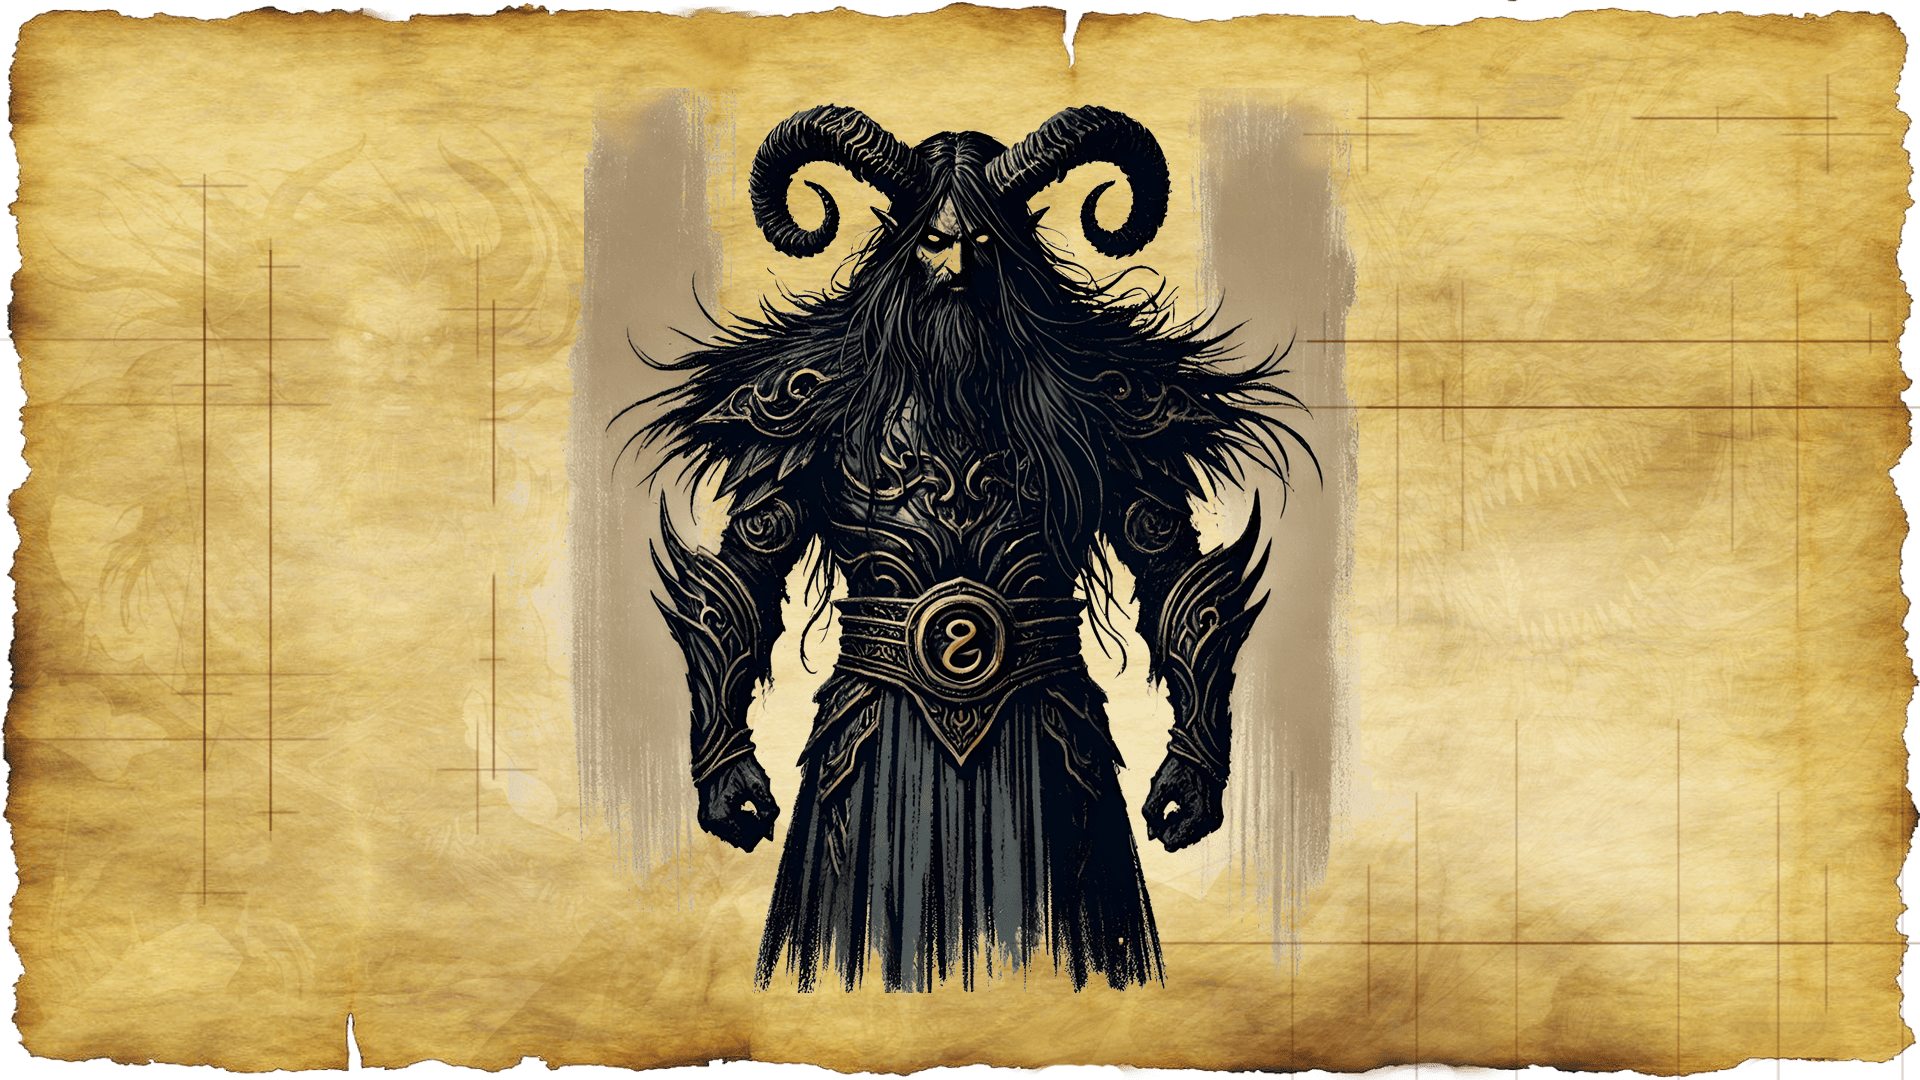
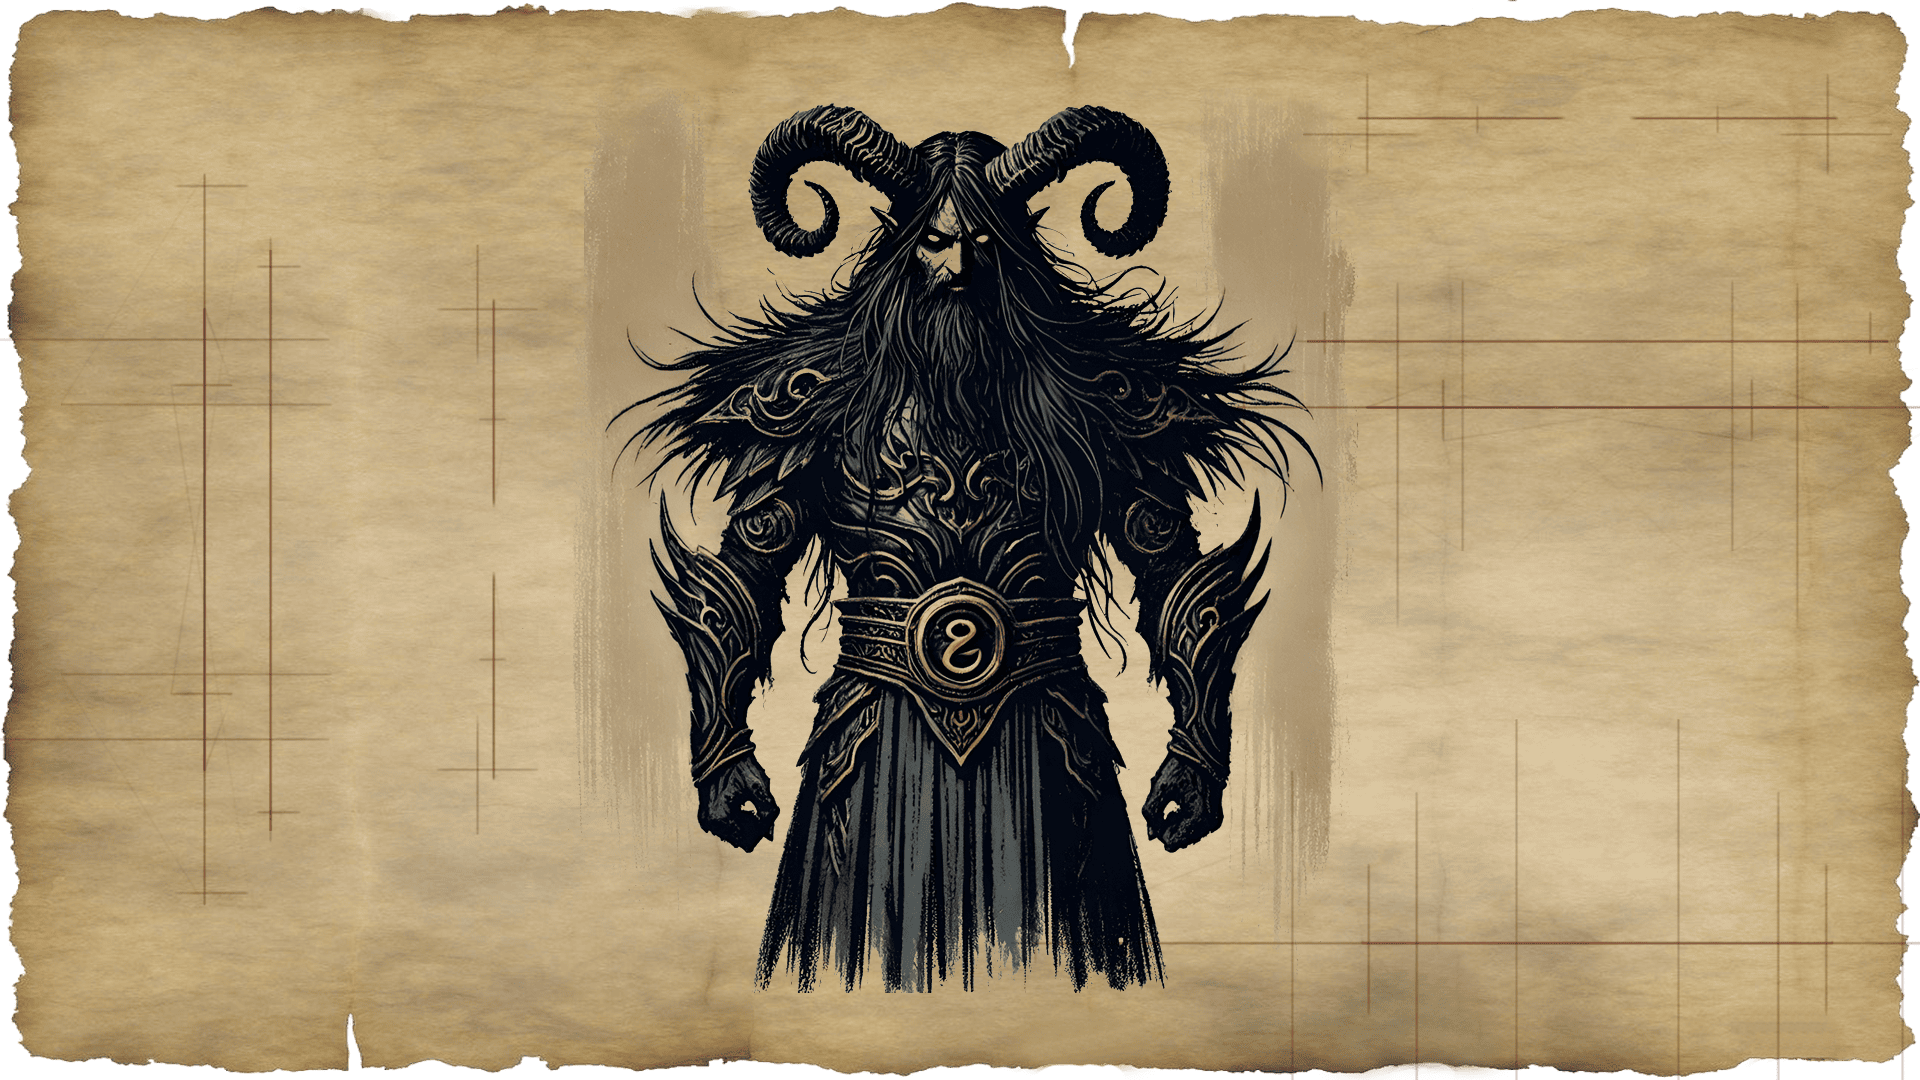
version 1.0007

diff --git a/api/Core/Business/obj/Debug/net6.0/BusinessTemplates.AssemblyInfo.cs b/api/Core/Business/obj/Debug/net6.0/BusinessTemplates.AssemblyInfo.cs
@@ -13,7 +13,7 @@ using System.Reflection;
 [assembly: System.Reflection.AssemblyCompanyAttribute("BusinessTemplates")]
 [assembly: System.Reflection.AssemblyConfigurationAttribute("Debug")]
 [assembly: System.Reflection.AssemblyFileVersionAttribute("1.0.0.0")]
-[assembly: System.Reflection.AssemblyInformationalVersionAttribute("1.0.0+92cb767b3fe06248a704fcee39d61af4e6f65eb4")]
+[assembly: System.Reflection.AssemblyInformationalVersionAttribute("1.0.0+20719113de83129b2b1778068c50c24eae18727a")]
 [assembly: System.Reflection.AssemblyProductAttribute("BusinessTemplates")]
 [assembly: System.Reflection.AssemblyTitleAttribute("BusinessTemplates")]
 [assembly: System.Reflection.AssemblyVersionAttribute("1.0.0.0")]

diff --git a/api/Core/CryptoOrganizer/obj/Debug/net6.0/CryptoOrganizer.AssemblyInfo.cs b/api/Core/CryptoOrganizer/obj/Debug/net6.0/CryptoOrganizer.AssemblyInfo.cs
@@ -13,7 +13,7 @@ using System.Reflection;
 [assembly: System.Reflection.AssemblyCompanyAttribute("CryptoOrganizer")]
 [assembly: System.Reflection.AssemblyConfigurationAttribute("Debug")]
 [assembly: System.Reflection.AssemblyFileVersionAttribute("1.0.0.0")]
-[assembly: System.Reflection.AssemblyInformationalVersionAttribute("1.0.0+92cb767b3fe06248a704fcee39d61af4e6f65eb4")]
+[assembly: System.Reflection.AssemblyInformationalVersionAttribute("1.0.0+20719113de83129b2b1778068c50c24eae18727a")]
 [assembly: System.Reflection.AssemblyProductAttribute("CryptoOrganizer")]
 [assembly: System.Reflection.AssemblyTitleAttribute("CryptoOrganizer")]
 [assembly: System.Reflection.AssemblyVersionAttribute("1.0.0.0")]

diff --git a/api/Core/EntityTemplates/obj/Debug/net6.0/EntityTemplates.AssemblyInfo.cs b/api/Core/EntityTemplates/obj/Debug/net6.0/EntityTemplates.AssemblyInfo.cs
@@ -13,7 +13,7 @@ using System.Reflection;
 [assembly: System.Reflection.AssemblyCompanyAttribute("EntityTemplates")]
 [assembly: System.Reflection.AssemblyConfigurationAttribute("Debug")]
 [assembly: System.Reflection.AssemblyFileVersionAttribute("1.0.0.0")]
-[assembly: System.Reflection.AssemblyInformationalVersionAttribute("1.0.0+92cb767b3fe06248a704fcee39d61af4e6f65eb4")]
+[assembly: System.Reflection.AssemblyInformationalVersionAttribute("1.0.0+20719113de83129b2b1778068c50c24eae18727a")]
 [assembly: System.Reflection.AssemblyProductAttribute("EntityTemplates")]
 [assembly: System.Reflection.AssemblyTitleAttribute("EntityTemplates")]
 [assembly: System.Reflection.AssemblyVersionAttribute("1.0.0.0")]

diff --git a/api/Core/MessageList/obj/Debug/net6.0/MessageList.AssemblyInfo.cs b/api/Core/MessageList/obj/Debug/net6.0/MessageList.AssemblyInfo.cs
@@ -13,7 +13,7 @@ using System.Reflection;
 [assembly: System.Reflection.AssemblyCompanyAttribute("MessageList")]
 [assembly: System.Reflection.AssemblyConfigurationAttribute("Debug")]
 [assembly: System.Reflection.AssemblyFileVersionAttribute("1.0.0.0")]
-[assembly: System.Reflection.AssemblyInformationalVersionAttribute("1.0.0+92cb767b3fe06248a704fcee39d61af4e6f65eb4")]
+[assembly: System.Reflection.AssemblyInformationalVersionAttribute("1.0.0+20719113de83129b2b1778068c50c24eae18727a")]
 [assembly: System.Reflection.AssemblyProductAttribute("MessageList")]
 [assembly: System.Reflection.AssemblyTitleAttribute("MessageList")]
 [assembly: System.Reflection.AssemblyVersionAttribute("1.0.0.0")]

diff --git a/api/Core/DataAccess/obj/Debug/net6.0/DataAccess.AssemblyInfo.cs b/api/Core/DataAccess/obj/Debug/net6.0/DataAccess.AssemblyInfo.cs
@@ -13,7 +13,7 @@ using System.Reflection;
 [assembly: System.Reflection.AssemblyCompanyAttribute("DataAccess")]
 [assembly: System.Reflection.AssemblyConfigurationAttribute("Debug")]
 [assembly: System.Reflection.AssemblyFileVersionAttribute("1.0.0.0")]
-[assembly: System.Reflection.AssemblyInformationalVersionAttribute("1.0.0+92cb767b3fe06248a704fcee39d61af4e6f65eb4")]
+[assembly: System.Reflection.AssemblyInformationalVersionAttribute("1.0.0+20719113de83129b2b1778068c50c24eae18727a")]
 [assembly: System.Reflection.AssemblyProductAttribute("DataAccess")]
 [assembly: System.Reflection.AssemblyTitleAttribute("DataAccess")]
 [assembly: System.Reflection.AssemblyVersionAttribute("1.0.0.0")]

diff --git a/api/Core/RedisCache/obj/Debug/net6.0/RedisCache.AssemblyInfo.cs b/api/Core/RedisCache/obj/Debug/net6.0/RedisCache.AssemblyInfo.cs
@@ -13,7 +13,7 @@ using System.Reflection;
 [assembly: System.Reflection.AssemblyCompanyAttribute("RedisCache")]
 [assembly: System.Reflection.AssemblyConfigurationAttribute("Debug")]
 [assembly: System.Reflection.AssemblyFileVersionAttribute("1.0.0.0")]
-[assembly: System.Reflection.AssemblyInformationalVersionAttribute("1.0.0+92cb767b3fe06248a704fcee39d61af4e6f65eb4")]
+[assembly: System.Reflection.AssemblyInformationalVersionAttribute("1.0.0+20719113de83129b2b1778068c50c24eae18727a")]
 [assembly: System.Reflection.AssemblyProductAttribute("RedisCache")]
 [assembly: System.Reflection.AssemblyTitleAttribute("RedisCache")]
 [assembly: System.Reflection.AssemblyVersionAttribute("1.0.0.0")]

diff --git a/api/Web/BackEnd/Business/obj/Debug/net6.0/Business.AssemblyInfo.cs b/api/Web/BackEnd/Business/obj/Debug/net6.0/Business.AssemblyInfo.cs
@@ -13,7 +13,7 @@ using System.Reflection;
 [assembly: System.Reflection.AssemblyCompanyAttribute("Business")]
 [assembly: System.Reflection.AssemblyConfigurationAttribute("Debug")]
 [assembly: System.Reflection.AssemblyFileVersionAttribute("1.0.0.0")]
-[assembly: System.Reflection.AssemblyInformationalVersionAttribute("1.0.0+92cb767b3fe06248a704fcee39d61af4e6f65eb4")]
+[assembly: System.Reflection.AssemblyInformationalVersionAttribute("1.0.0+20719113de83129b2b1778068c50c24eae18727a")]
 [assembly: System.Reflection.AssemblyProductAttribute("Business")]
 [assembly: System.Reflection.AssemblyTitleAttribute("Business")]
 [assembly: System.Reflection.AssemblyVersionAttribute("1.0.0.0")]

diff --git a/api/Core/Log/obj/Debug/net6.0/Logging.AssemblyInfo.cs b/api/Core/Log/obj/Debug/net6.0/Logging.AssemblyInfo.cs
@@ -13,7 +13,7 @@ using System.Reflection;
 [assembly: System.Reflection.AssemblyCompanyAttribute("Logging")]
 [assembly: System.Reflection.AssemblyConfigurationAttribute("Debug")]
 [assembly: System.Reflection.AssemblyFileVersionAttribute("1.0.0.0")]
-[assembly: System.Reflection.AssemblyInformationalVersionAttribute("1.0.0+92cb767b3fe06248a704fcee39d61af4e6f65eb4")]
+[assembly: System.Reflection.AssemblyInformationalVersionAttribute("1.0.0+20719113de83129b2b1778068c50c24eae18727a")]
 [assembly: System.Reflection.AssemblyProductAttribute("Logging")]
 [assembly: System.Reflection.AssemblyTitleAttribute("Logging")]
 [assembly: System.Reflection.AssemblyVersionAttribute("1.0.0.0")]

diff --git a/api/Web/BackEnd/Entity/obj/Debug/net6.0/Entity.AssemblyInfo.cs b/api/Web/BackEnd/Entity/obj/Debug/net6.0/Entity.AssemblyInfo.cs
@@ -13,7 +13,7 @@ using System.Reflection;
 [assembly: System.Reflection.AssemblyCompanyAttribute("Entity")]
 [assembly: System.Reflection.AssemblyConfigurationAttribute("Debug")]
 [assembly: System.Reflection.AssemblyFileVersionAttribute("1.0.0.0")]
-[assembly: System.Reflection.AssemblyInformationalVersionAttribute("1.0.0+92cb767b3fe06248a704fcee39d61af4e6f65eb4")]
+[assembly: System.Reflection.AssemblyInformationalVersionAttribute("1.0.0+20719113de83129b2b1778068c50c24eae18727a")]
 [assembly: System.Reflection.AssemblyProductAttribute("Entity")]
 [assembly: System.Reflection.AssemblyTitleAttribute("Entity")]
 [assembly: System.Reflection.AssemblyVersionAttribute("1.0.0.0")]

diff --git a/api/Web/BackEnd/Api/obj/Debug/net6.0/Api.AssemblyInfo.cs b/api/Web/BackEnd/Api/obj/Debug/net6.0/Api.AssemblyInfo.cs
@@ -13,7 +13,7 @@ using System.Reflection;
 [assembly: System.Reflection.AssemblyCompanyAttribute("Api")]
 [assembly: System.Reflection.AssemblyConfigurationAttribute("Debug")]
 [assembly: System.Reflection.AssemblyFileVersionAttribute("1.0.0.0")]
-[assembly: System.Reflection.AssemblyInformationalVersionAttribute("1.0.0+92cb767b3fe06248a704fcee39d61af4e6f65eb4")]
+[assembly: System.Reflection.AssemblyInformationalVersionAttribute("1.0.0+20719113de83129b2b1778068c50c24eae18727a")]
 [assembly: System.Reflection.AssemblyProductAttribute("Api")]
 [assembly: System.Reflection.AssemblyTitleAttribute("Api")]
 [assembly: System.Reflection.AssemblyVersionAttribute("1.0.0.0")]
